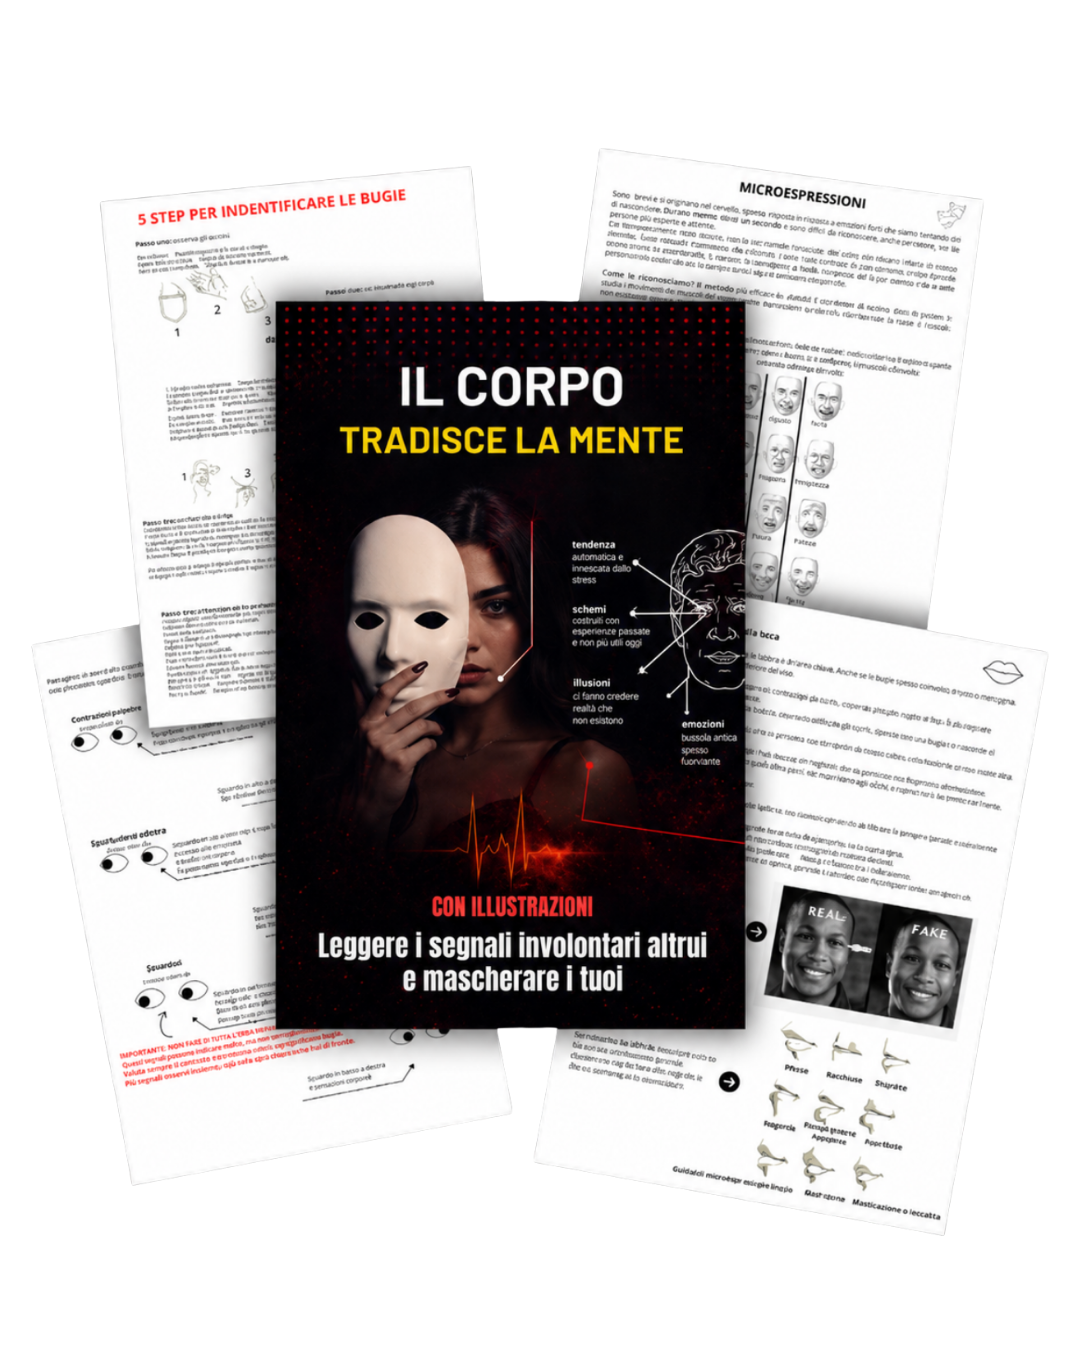
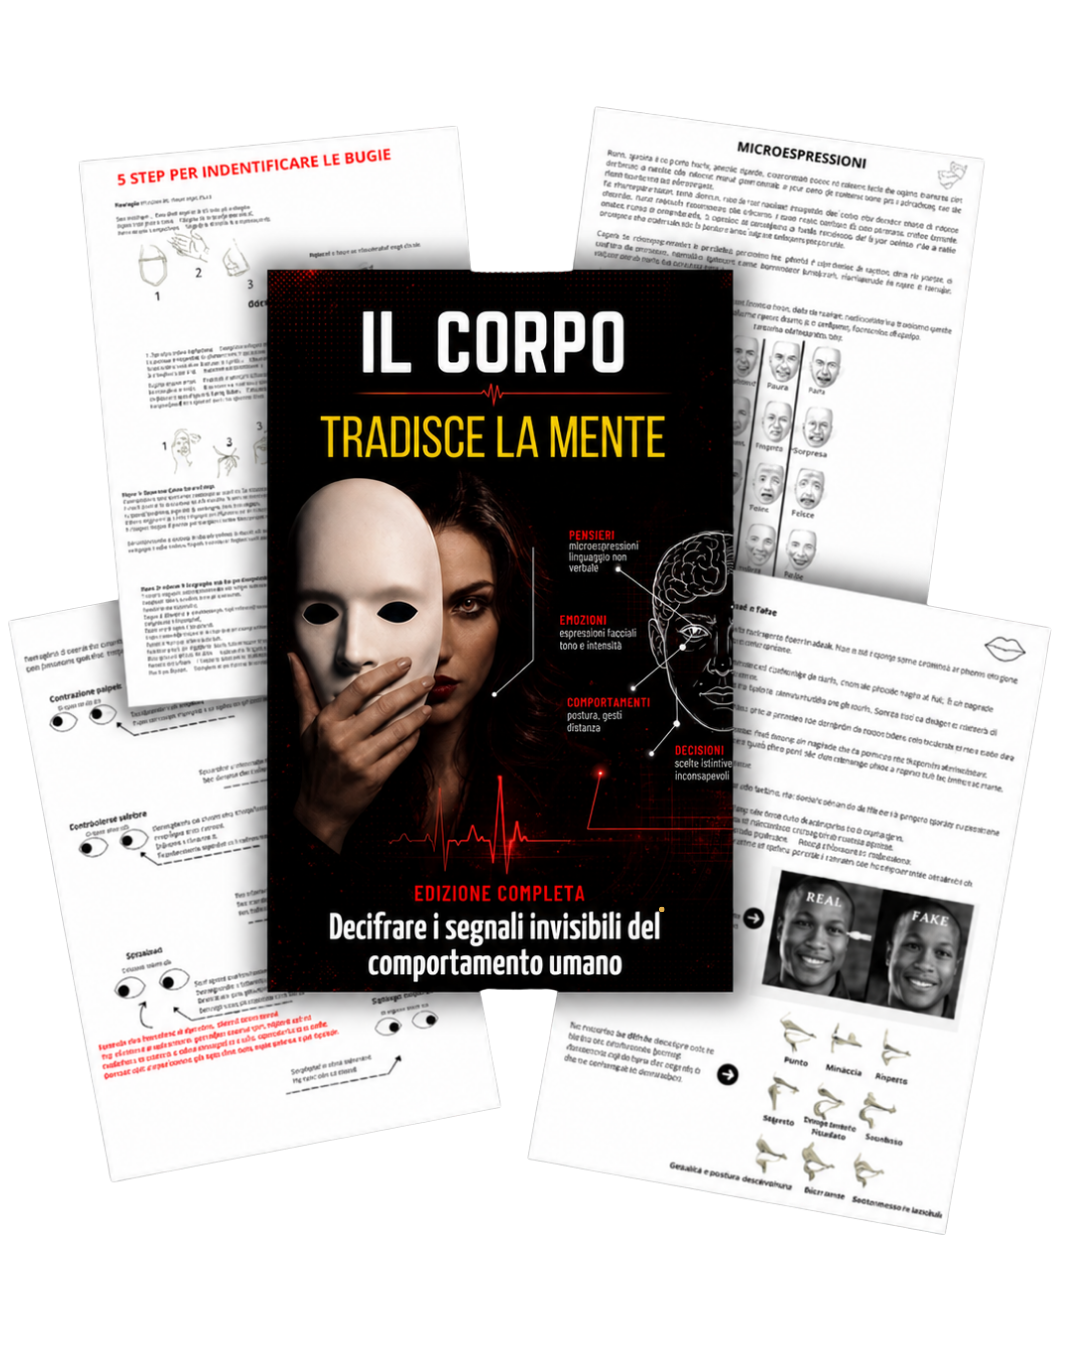
Add files via upload

Changed region(s): [[0.0306, 0.0933, 0.9472, 0.9022], [0.6111, 0.84, 0.6722, 0.8711]]

diff --git a/index.html b/index.html
@@ -114,29 +114,28 @@ src="https://www.facebook.com/tr?id=1633787111176715&ev=PageView&noscript=1"
 </head>
 <body>
 
-<div class="preview-note">ANTEPRIMA LAYOUT — copy provvisorio, non ancora il file finale</div>
-
 <div class="wrap">
 
   <section>
     <span class="tag">Leggere i segnali, mascherare i tuoi</span>
     <h1 class="display">Il corpo tradisce la mente</h1>
-    <p class="subline">Il corpo dice sempre la verità. Anche quando le parole mentono.</p>
-    <p class="lead">Il corpo parla sempre. Sguardo, mani, postura... sono segnali che le persone mandano senza accorgersene, e che quasi nessuno sa leggere. Questo libro ti insegna a decifrarli negli altri, e a controllare i tuoi.</p>
+    <p class="subline">Impara a riconoscere disagio, bugie e attrazione attraverso il linguaggio del corpo.</p>
+    <p class="lead">Un nuovo modo di osservare, comprendere e interpretare il comportamento umano.</p>
 
-    <img src="libro-cartaceo.png" alt="Mockup del libro Il corpo tradisce la mente" style="width:200px;margin:20px auto 0;">
+    <img src="libro-cartaceo.png" alt="Mockup del libro Il corpo tradisce la mente" style="width:240px;margin:20px auto 0;">
 
     <div class="price-row">
       <span class="price-old">39,97€</span><span class="price">14,97€</span>
       <span class="discount-badge">-63%</span>
     </div>
-    <a href="https://buy.stripe.com/bJe3cvdgRdKJeMj8IV6wE04" class="cta" onclick="fbq('track','InitiateCheckout');">Inizia a leggere i segnali</a>
+    <p class="reassure" style="text-align:center;margin-top:8px;">Ebook PDF · download immediato</p>
+    <a href="https://buy.stripe.com/bJe3cvdgRdKJeMj8IV6wE04" class="cta" onclick="fbq('track','InitiateCheckout');">Ottieni il libro</a>
   </section>
 
   <section>
-    <span class="tag">6 segnali da riconoscere</span>
+    <span class="tag">Dentro il metodo</span>
     <h2 style="margin-top:14px;">Cosa imparerai</h2>
-    <p class="section-intro">Sei capitoli, un segnale alla volta. Teoria essenziale, esempi reali, esercizi per allenare l'occhio a coglierli sul momento.</p>
+    <p class="section-intro">Un metodo strutturato per osservare, interpretare e comprendere le persone attraverso il loro comportamento non verbale.</p>
 
     <img src="libro-pagine-dietro.png" alt="Il libro con le pagine in evidenza" style="width:100%;height:auto;margin:0 auto 22px;">
 
@@ -188,23 +187,23 @@ src="https://www.facebook.com/tr?id=1633787111176715&ev=PageView&noscript=1"
 
     <div class="review">
       <div class="review-stars">★★★★★</div>
-      <div class="review-text">"Ero scettico, sembra uno di quei libri da guru. Poi ho provato lo schema degli occhi con una ragazza e ha funzionato al primo tentativo. Mi ha fatto ricredere."</div>
-      <div class="review-author">— Marco</div>
+      <div class="review-text">"Ho letto diversi libri sul linguaggio del corpo negli ultimi anni, ma questo è il primo che riesce a trasformare concetti complessi in un metodo pratico. È chiaro, diretto e soprattutto applicabile nella vita di tutti i giorni."</div>
+      <div class="review-author">— Marco, 34</div>
     </div>
     <div class="review">
       <div class="review-stars">★★★★★</div>
-      <div class="review-text">"L'ho trovato utilissimo per capire quando l'altra persona è davvero interessata o è li sono a perdere tempo. Lo consiglio vivamente!"</div>
-      <div class="review-author">— Andrea</div>
+      <div class="review-text">"La cosa che odiavo di più era uscire con una ragazza e non capire se fosse interessata a me o meno. Questo libro mi ha insegnato a osservare i segnali durante l'appuntamento e a capirlo sul momento."</div>
+      <div class="review-author">— Andrea, 28</div>
     </div>
     <div class="review">
       <div class="review-stars">★★★★★</div>
-      <div class="review-text">"Libro pratico e diretto, niente filosofia. Ho applicato tre cose al primo appuntamento dopo averlo letto e ho visto subito la differenza. Complimenti."</div>
-      <div class="review-author">— Simone</div>
+      <div class="review-text">"Pensavo che il mio problema fosse la mancanza di sicurezza. In realtà non riuscivo a interpretare quello che avevo davanti e questo mi faceva dubitare di ogni mia scelta. Oggi affronto le interazioni con molta più lucidità."</div>
+      <div class="review-author">— Simone, 31</div>
     </div>
   </section>
 
   <section>
-    <img src="libro-cartaceo.png" alt="Mockup del libro Il corpo tradisce la mente" style="width:200px;margin:0 auto 20px;">
+    <img src="libro-cartaceo.png" alt="Mockup del libro Il corpo tradisce la mente" style="width:240px;margin:0 auto 20px;">
     <div class="price-block">
       <div>
         <div style="display:flex;align-items:baseline;justify-content:center;gap:10px;"><span class="price-old">39,97€</span><span class="price">14,97€</span> <span class="discount-badge">-63%</span></div>
@@ -212,7 +211,7 @@ src="https://www.facebook.com/tr?id=1633787111176715&ev=PageView&noscript=1"
       </div>
     </div>
     <p class="closing" style="margin-top:32px;">Il corpo parla sempre.<br>Ora sai come ascoltarlo.</p>
-    <a href="https://buy.stripe.com/bJe3cvdgRdKJeMj8IV6wE04" class="cta" onclick="fbq('track','InitiateCheckout');">Voglio il libro</a>
+    <a href="https://buy.stripe.com/bJe3cvdgRdKJeMj8IV6wE04" class="cta" onclick="fbq('track','InitiateCheckout');">Ottieni il libro</a>
   </section>
 
   <footer style="padding:24px 0 40px;text-align:center;">